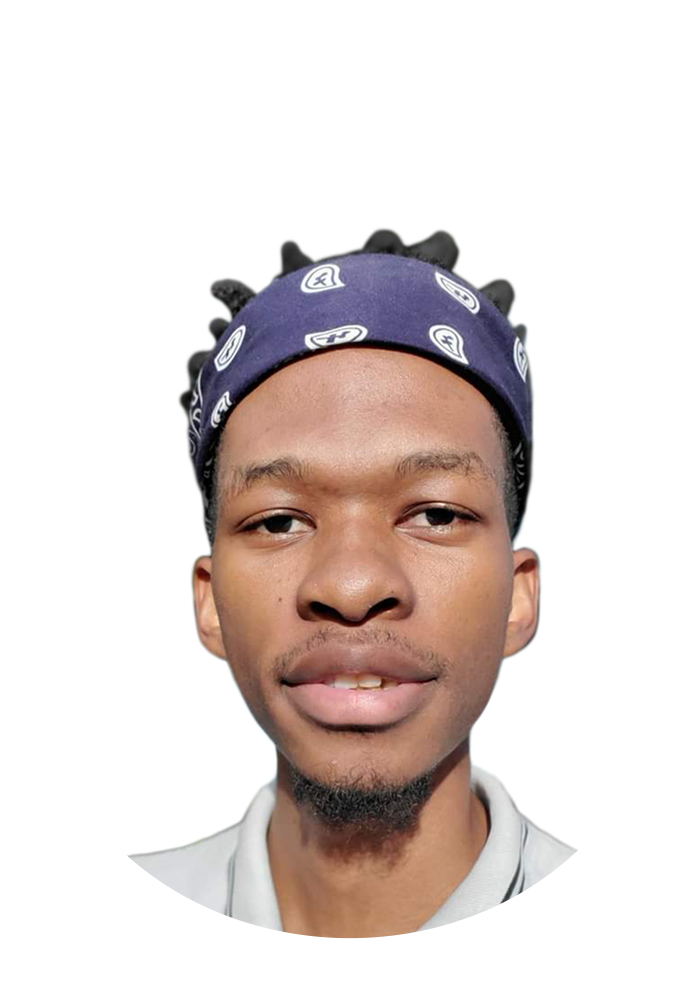
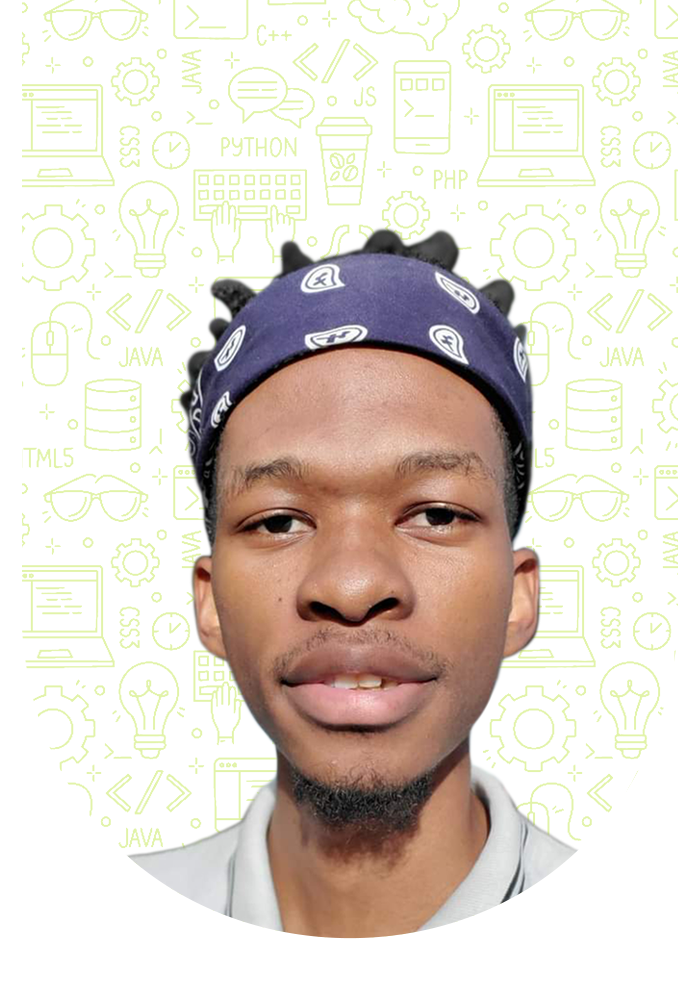
adjusments

diff --git a/pages/home_page/homeFX.css b/pages/home_page/homeFX.css
@@ -96,9 +96,10 @@ body{
     z-index: -1;
     inset: 0;
     background-image: url(../../images/background_pattern.png);
+    background-size: 300px 300px;
     background-repeat: repeat;
     background-color: #00000066;
-    filter: blur(3px);
+    /* filter: blur(3px); */
 }
 
 #pageHeader{
@@ -205,10 +206,10 @@ body{
     z-index: -1;
     inset: 0;
     background-image: url(../../images/background_pattern.png);
+    background-size: 300px 300px;
     background-repeat: repeat;
     background-color: #00000066;
-    filter: blur(3px);
-    
+    /* filter: blur(3px);  */
 }
 
 #menu{
@@ -319,7 +320,7 @@ body{
     position: relative;
 
     box-sizing: border-box;
-    padding: 0 4% 20px 4%;
+    padding: 10px 4% 20px 4%;
     margin: 2%;
     line-height: 150%;
     border-radius: var(--barelyRounded);
@@ -561,17 +562,29 @@ body{
     padding: 0 10px;
 }
 
+.projectCard::before{
+    content: "";
+    position: absolute;
+    bottom: 0;
+    z-index: 0;
+    background-color: var(--accent-tint);
+    width: 100%;
+    height: 0;
+
+    transition: height 1s;
+}
+
 .projectCard{
     flex: 0 0 auto;
     height: 500px;
-    width: 280px;
+    width: 250px;
     position: relative;
     justify-self: center;
     border-radius: var(--barelyRounded);
     background-color: var(--gray30);
     overflow: hidden;
     scroll-snap-align: center;
-    box-shadow: var(--overSurface);
+    box-shadow: 0  0 10px 0 #00000099;
 
     display: grid;
     grid-template-columns: 1fr;
@@ -581,8 +594,8 @@ body{
     transition: background-color 1s, transform 1s;
 }
 
-.projectCard:hover{
-    background-color: var(--gray50);
+.projectCard:hover .projectDetails{
+    color: var(--gray30);
 }
 
 .projectCard:hover .projectImg{
@@ -590,18 +603,19 @@ body{
     transform: scale(1.1);
 }
 
-.projectCard:hover .projectTitle{
-    color: var(--accent-tint);
-}
-
 .projectCard:hover .projectBubble{
     color: var(--accent-tint);
+    background-color: var(--gray30);
+}
+
+.projectCard:hover::before{
+    height: 100%;
 }
 
 .projectDetails{
     grid-row: 1;
     width: 100%;
-    z-index: 1;
+    z-index: 2;
     color: var(--gray70);
     text-align: center;
 
@@ -619,22 +633,24 @@ body{
 
 .projectLinksContainer{
     grid-row: 2;
+    z-index: 2;
     justify-self: center;
-    width: min-content;
+    
     display: flex;
     flex-flow: row nowrap;
     column-gap: 15px;
     justify-content: center;
-    transition: transform 1s, border 1s;
+    box-sizing: border-box;
+    padding: 10px 0;
 }
 
 .projectBubble{
-    color: var(--gray70);
+    color: var(--gray50);
     border-radius: 50%;
     
     height: 40px;
     width: 40px;
-    background-color: var(--gray30);
+    background-color: var(--gray70);
 
     display: grid;
     grid-template-columns: auto;
@@ -646,15 +662,13 @@ body{
 }
 
 .projectBubble:hover {
-    color: #fff !important;
     transform: scale(1.2);
-    background-color: var(--accent-tint) !important;
 }
 
 .projectImg{
     grid-row: 3;
     height: 100%;
-    filter: blur(3px);
+    filter: blur(5px);
 
     transition: filter 1s, transform 1s;
 }
@@ -684,7 +698,7 @@ body{
     grid-template-columns: auto;
     justify-content: center;
     column-gap: 30px;
-    row-gap: 80px;
+    row-gap: 100px;
 
     border-bottom-right-radius: var(--barelyRounded);
     border-bottom-left-radius: var(--barelyRounded);
@@ -707,7 +721,7 @@ body{
 .serviceIconContainer{
     width: 100%;
     position: absolute;
-    top: -35px;
+    top: -45px;
 
     display: flex;
     flex-flow: row wrap;
@@ -772,7 +786,7 @@ body{
     position: absolute;
     z-index: -1;
     inset: 0;
-    background-image: linear-gradient(transparent, #00000044)
+    background-image: linear-gradient(transparent, #96a8c4)
 }
 
 #pageFooter{
@@ -808,7 +822,7 @@ body{
     padding-top: 20px;
     display: flex;
     flex-flow: row wrap;
-    row-gap: 15px;
+    row-gap: 10px;
 
     color: var(--gray50);
     border-color: var(--gray50);
@@ -854,7 +868,7 @@ body{
     border-top: solid 1px #00000033;
     padding-top: 10px;
     margin-top: 150px;
-    color: #00000033;
+    color: #00000055;
     text-align: end;
 }
 

diff --git a/pages/home_page/home.html b/pages/home_page/home.html
@@ -728,7 +728,7 @@
 
                     </div>
 
-                    <div id="copyright_txt" >© AUGUST® 2024 | Augustine Chulu. All Rights Reserved</div>
+                    <div id="copyright_txt" >© AUGUST 2024 | Augustine Chulu. All Rights Reserved</div>
 
                 </div>
 
